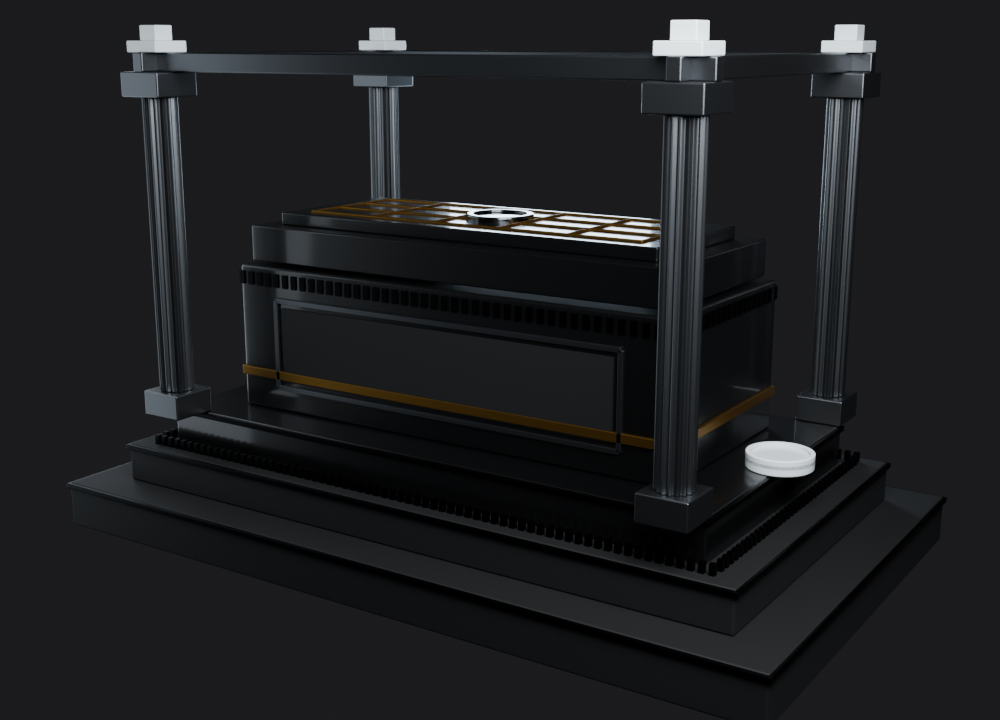
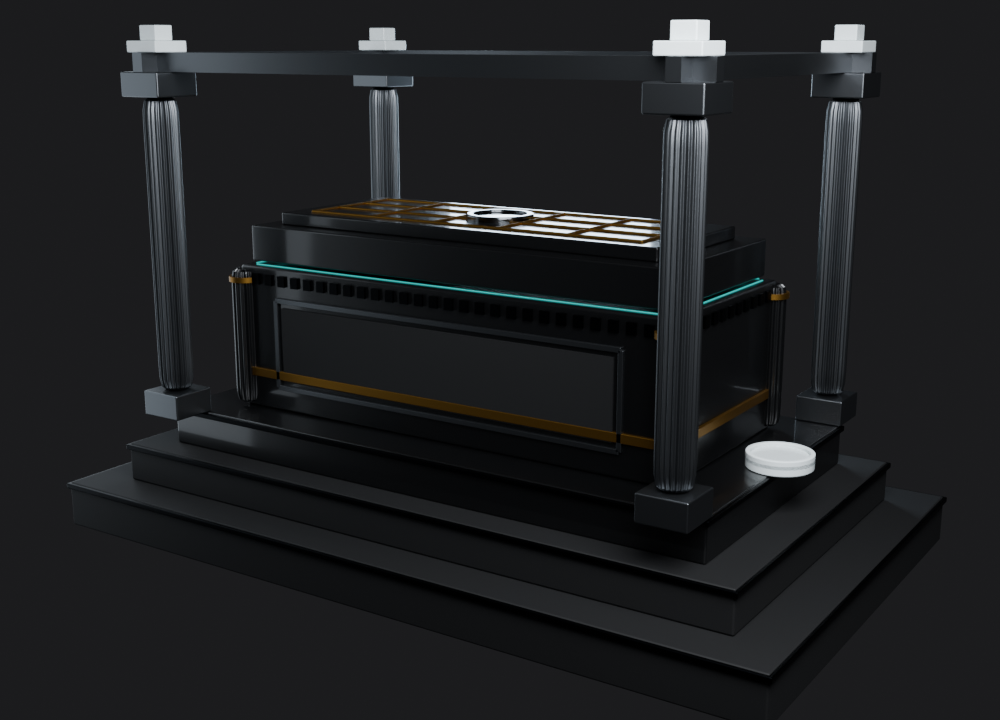
Hero polish + full end-to-end Critic pass across all six movements
Verified every movement in headless Chromium and fixed what the frames exposed:

Grade / exposure (was blowing out to white):
- Bloom threshold 0.85→0.92 so only true emissives bloom, not lit ceramic/metal
- Exposure 1.05→0.82; per-scene emissive + light levels calmed
- Chromatic aberration reduced to an edge-only whisper (was frame-wide rainbows)

Hero — Human Revision (Act II):
- Camera pulled back + lens 75→62mm so the module fits (was a white smear)
- Living neural signal-flow lights travelling up the spine + conductor pulse
- Cool rim light so the ceramic shell separates from the void
- Explode reads: shells split, cyan spine revealed, anomaly (41/59/CONTROL) lands

Hero — Handshake: fixed leaf-parting axis (parts horizontally along the seam now)

Mirror epilogue: the replica point cloud was invisible (points too small) and
never converged (dt-damped assemble lagged at low fps). Points enlarged to read
at portrait distance; assembly re-based on the wall clock. The human silhouette
now forms from the subject's own behavior and both choices appear.

Infrastructure: machinery pulled closer + a travelling worklight rakes the walls
so the city's organs read; mixed the rack/cooler/fiber kit into the descent.

Robustness:
- Scene disposal now frees geometry, materials, AND their textures (sprite/points
  canvas textures leaked — suspected cause of a SwiftShader crash after repeated
  scene swaps)
[…]

diff --git a/src/engine/scenes/AugmentationScene.ts b/src/engine/scenes/AugmentationScene.ts
@@ -35,6 +35,8 @@ export class AugmentationScene extends Scene {
   private module?: THREE.Object3D;
   private parts: Record<string, THREE.Object3D> = {};
   private basePos: Record<string, THREE.Vector3> = {};
+  private neuralMat?: THREE.MeshStandardMaterial;
+  private signals: THREE.PointLight[] = [];
   private yaw = 0;
   private pitch = 0;
   private explode = 0;
@@ -68,6 +70,22 @@ export class AugmentationScene extends Scene {
           this.basePos[name] = o.position.clone();
         }
       }
+      // Grab the neural material so we can drive a living signal pulse.
+      const neural = a.parts['Neural_Conductor'] as THREE.Mesh;
+      if (neural?.isMesh) this.neuralMat = neural.material as THREE.MeshStandardMaterial;
+
+      // Two cyan signals that travel up the spine — the nervous system alive.
+      for (let i = 0; i < 2; i++) {
+        const sig = new THREE.PointLight(0x4fd4d0, 2.2, 1.4, 2);
+        this.three.add(sig);
+        this.signals.push(sig);
+      }
+
+      // A cool rim light so the ceramic shell separates from the void.
+      const rim = new THREE.SpotLight(0xbfe9ea, 26, 12, Math.PI / 5, 0.7, 1.2);
+      rim.position.set(-2.5, 2.4, -3);
+      rim.target.position.set(0, 0.9, 0);
+      this.three.add(rim, rim.target);
     } catch {
       // Fallback: a stand-in stack so the scene still stands up.
       const stand = new THREE.Mesh(
@@ -87,18 +105,31 @@ export class AugmentationScene extends Scene {
     setState({ interaction: 'engaged', systemLine: 'SUBJECT FRAME LOADED — REVISION PREVIEW' });
   }
 
-  update(ctx: SceneContext, dt: number, _time: number): void {
+  update(ctx: SceneContext, dt: number, time: number): void {
     const p = ctx.timeline.progress;
 
     // Constrained orbit: pointer sets a TARGET yaw/pitch within ±14° / ±7°.
+    // A very slow drift toward the module (3-beat: hold → creep → hold) keeps the
+    // held shot alive without turning it into a game camera.
     const targetYaw = ctx.pointer.x * 0.24;
     const targetPitch = ctx.pointer.y * 0.12;
     this.yaw = damp(this.yaw, targetYaw, 3, dt);
     this.pitch = damp(this.pitch, targetPitch, 3, dt);
-    const cx = Math.sin(this.yaw) * this.radius;
-    const cz = Math.cos(this.yaw) * this.radius;
+    const creep = this.radius - smoothstep(clamp(ctx.timeline.localTime / 10)) * 0.5;
+    const cx = Math.sin(this.yaw) * creep;
+    const cz = Math.cos(this.yaw) * creep;
     const cy = 0.95 + this.pitch * 1.4;
     ctx.camera.setTarget([cx, cy, cz], [this.center.x, this.center.y, this.center.z]);
+
+    // Neural signals travel up the spine; the conductor breathes with them.
+    this.signals.forEach((sig, i) => {
+      const t = (time * 0.5 + i * 0.5) % 1;
+      sig.position.set(0, 0.2 + t * 1.4, 0.06);
+      sig.intensity = Math.sin(t * Math.PI) * 3.0;
+    });
+    if (this.neuralMat) {
+      this.neuralMat.emissiveIntensity = 1.0 + Math.sin(time * 3.5) * 0.5 + this.explode * 0.8;
+    }
 
     // Scrub separates the layers in sequence (shell → muscle → neural → memory).
     this.explode = damp(this.explode, smoothstep(p), 2.4, dt);

diff --git a/src/engine/scenes/Scene.ts b/src/engine/scenes/Scene.ts
@@ -51,14 +51,20 @@ export abstract class Scene {
   exit(_ctx: SceneContext): void {}
 
   dispose() {
-    this.three.traverse((o) => {
-      const m = o as THREE.Mesh;
-      if (m.isMesh) {
-        m.geometry?.dispose();
-        const mat = m.material;
-        if (Array.isArray(mat)) mat.forEach((x) => x.dispose());
-        else mat?.dispose();
+    const freeMat = (mat: THREE.Material) => {
+      // Dispose any textures the material holds (canvas glow sprites leak otherwise).
+      for (const v of Object.values(mat) as unknown[]) {
+        if (v && (v as THREE.Texture).isTexture) (v as THREE.Texture).dispose();
       }
+      mat.dispose();
+    };
+    this.three.traverse((o) => {
+      // Covers Mesh, Points, Sprite, Line — anything with geometry/material.
+      const g = (o as THREE.Mesh).geometry as THREE.BufferGeometry | undefined;
+      const mat = (o as THREE.Mesh).material as THREE.Material | THREE.Material[] | undefined;
+      g?.dispose?.();
+      if (Array.isArray(mat)) mat.forEach(freeMat);
+      else if (mat) freeMat(mat);
     });
     this.three.clear();
   }

diff --git a/src/engine/scenes/MirrorScene.ts b/src/engine/scenes/MirrorScene.ts
@@ -9,7 +9,7 @@ import * as THREE from 'three';
 import { Scene, type SceneContext } from './Scene';
 import type { SceneId } from '../../narrative/acts';
 import { PALETTE } from '../../util/palette';
-import { clamp, damp, lerp } from '../../util/math';
+import { clamp, lerp, smoothstep } from '../../util/math';
 import { humanoidCloud } from './sceneKit';
 import { getState, setState } from '../../state/store';
 
@@ -77,13 +77,13 @@ export class MirrorScene extends Scene {
     }
   }
 
-  update(ctx: SceneContext, dt: number, time: number): void {
-    // The replica assembles from the recorded behavior over ~6 real seconds
-    // (wall-clock, so it is frame-rate independent).
+  update(_ctx: SceneContext, dt: number, time: number): void {
+    // The replica assembles from the recorded behavior over ~6 real seconds.
+    // Driven directly off the wall clock (not a dt-damp) so the figure forms on
+    // schedule at any frame rate.
     if (!this.enterTime) this.enterTime = performance.now();
     const elapsed = (performance.now() - this.enterTime) / 1000;
-    const target = this.resolved ? 1 : clamp(elapsed / 6);
-    this.assemble = damp(this.assemble, target, 1.4, dt);
+    this.assemble = this.resolved ? 1 : smoothstep(clamp(elapsed / 6));
 
     const pos = this.cloud.geometry.getAttribute('position') as THREE.BufferAttribute;
     const arr = pos.array as Float32Array;

diff --git a/src/engine/scenes/InfrastructureScene.ts b/src/engine/scenes/InfrastructureScene.ts
@@ -20,6 +20,7 @@ export class InfrastructureScene extends Scene {
   private stream!: DataStream;
   private drones: THREE.Object3D[] = [];
   private racks: THREE.Object3D[] = [];
+  private travelLight!: THREE.PointLight;
   private lookedBack = false;
 
   async build(ctx: SceneContext): Promise<void> {
@@ -75,6 +76,11 @@ export class InfrastructureScene extends Scene {
 
     // Maintenance drones drifting in the shaft.
     await this.spawnDrones(ctx);
+
+    // A travelling worklight that descends with the camera so the machinery it
+    // passes reads as the city's illuminated organs, not silhouettes in a void.
+    this.travelLight = new THREE.PointLight(0xcfe0e6, 60, 22, 1.6);
+    this.three.add(this.travelLight);
   }
 
   private async populateWalls(ctx: SceneContext) {
@@ -89,7 +95,7 @@ export class InfrastructureScene extends Scene {
     for (let i = 0; i < 34; i++) {
       const ang = (i / 34) * Math.PI * 2 * 3 + (i % 2) * 0.4; // spiral down
       const y = 3 - i * 3.4;
-      const radius = 5.0 + (i % 3) * 0.7;
+      const radius = 4.1 + (i % 3) * 0.55; // close enough to read as passing organs
       const proto = protos[i % protos.length];
       const mod = proto ? proto.clone() : machinedModule(1.6, 3.0, 0.9);
       mod.position.set(Math.cos(ang) * radius, y, Math.sin(ang) * radius);
@@ -139,6 +145,9 @@ export class InfrastructureScene extends Scene {
     const camY = remap(p, 0, 1, 4, -150, smoothstep);
     const camZ = remap(p, 0, 1, 7, 3.2);
     ctx.camera.setTarget([0, camY, camZ], [0, camY - 4, 0]);
+
+    // Worklight rides just ahead of and below the camera, raking the walls.
+    if (this.travelLight) this.travelLight.position.set(2.5, camY - 1.5, camZ - 1.5);
 
     // Shot 4 (>0.6): infrastructure reveal — widen and slow.
     if (p > 0.6) ctx.camera.setLens(lerp(22, 28, smoothstep(remap(p, 0.6, 1, 0, 1))));

diff --git a/src/engine/scenes/HandshakeScene.ts b/src/engine/scenes/HandshakeScene.ts
@@ -19,6 +19,8 @@ export class HandshakeScene extends Scene {
   private door?: THREE.Object3D;
   private leafL?: THREE.Object3D;
   private leafR?: THREE.Object3D;
+  private leafLBase = new THREE.Vector3();
+  private leafRBase = new THREE.Vector3();
   private core?: THREE.Object3D;
   private coreMat?: THREE.MeshStandardMaterial;
   private key!: THREE.SpotLight;
@@ -47,6 +49,8 @@ export class HandshakeScene extends Scene {
 
       this.leafL = asset.parts['Leaf_L'];
       this.leafR = asset.parts['Leaf_R'];
+      if (this.leafL) this.leafLBase.copy(this.leafL.position);
+      if (this.leafR) this.leafRBase.copy(this.leafR.position);
       this.core = asset.parts['Core'];
       const coreMesh = this.core as THREE.Mesh;
       if (coreMesh?.isMesh) this.coreMat = coreMesh.material as THREE.MeshStandardMaterial;
@@ -157,8 +161,9 @@ export class HandshakeScene extends Scene {
       this.authTime = (performance.now() - this.authStart) / 1000;
       const t = this.authTime;
       const open = smoothstep(clamp((t - 0.35) / 1.5)); // leaves part after the silent beat
-      if (this.leafL) this.leafL.position.z = -open * 1.6; // along door width after standup
-      if (this.leafR) this.leafR.position.z = open * 1.6;
+      // Part horizontally along the seam (local X survives the stand-up rotation).
+      if (this.leafL) this.leafL.position.x = this.leafLBase.x - open * 2.4;
+      if (this.leafR) this.leafR.position.x = this.leafRBase.x + open * 2.4;
       // Dolly the camera forward through the widening gap.
       const push = smoothstep(clamp((t - 0.6) / 2.2));
       ctx.camera.posLambda = 1.1;

diff --git a/src/engine/scenes/sceneKit.ts b/src/engine/scenes/sceneKit.ts
@@ -139,12 +139,13 @@ export function humanoidCloud(count: number, color = PALETTE.cyan): THREE.Points
   g.setAttribute('aSeed', new THREE.BufferAttribute(seed, 1));
   const mat = new THREE.PointsMaterial({
     color,
-    size: 0.014,
-    map: makeGlowSprite(32, '#' + new THREE.Color(color).getHexString()),
+    size: 0.05, // must read as a luminous body at an 85mm portrait distance
+    map: makeGlowSprite(48, '#' + new THREE.Color(color).getHexString()),
     transparent: true,
-    opacity: 0.9,
+    opacity: 0.95,
     depthWrite: false,
     blending: THREE.AdditiveBlending,
+    sizeAttenuation: true,
   });
   return new THREE.Points(g, mat);
 }

diff --git a/src/engine/scenes/PredictionScene.ts b/src/engine/scenes/PredictionScene.ts
@@ -60,7 +60,7 @@ export class PredictionScene extends Scene {
 
     // Thousands of behavior simulations — glowing sprites orbiting the core.
     const simTex = makeGlowSprite(32, '#4fd4d0');
-    const N = Math.floor(900 * ctx.profile.particles + 120);
+    const N = Math.floor(620 * ctx.profile.particles + 90);
     for (let i = 0; i < N; i++) {
       const s = new THREE.Sprite(new THREE.SpriteMaterial({ map: simTex, color: PALETTE.cyan, transparent: true, opacity: 0.5, blending: THREE.AdditiveBlending, depthWrite: false }));
       const a = Math.random() * Math.PI * 2;

diff --git a/tools/blender/build_vault_sarcophagus.py b/tools/blender/build_vault_sarcophagus.py
@@ -189,6 +189,25 @@ for sy in (1, -1):
         S.assign(r, m["titanium"]); S.bevel(r, 0.003, 2)
         S.apply_modifiers(r); body_parts.append(r)
 
+# Engaged fluted colonnettes at the coffin's four vertical corners — a classical
+# corner treatment (like a tomb's corner columns). Real, subsurf-smoothed stone,
+# baked so it survives the join: it enriches the plain corners and carries mass.
+COLN_H = BODY[2] - 0.04
+for sx in (1, -1):
+    for sy in (1, -1):
+        cn = fluted_column("Body_Colonnette", 0.075, COLN_H, 14, 8, 8, 0.010,
+                           (sx * (BODY[0] / 2 - 0.015), sy * (BODY[1] / 2 - 0.015),
+                            BODY_Z), col)
+        S.assign(cn, m["obsidian"]); S.shade_smooth(cn)
+        S.subsurf(cn, 1, 1); S.apply_modifiers(cn)
+        body_parts.append(cn)
+        # A thin oxidized-brass ring astragal near the top of each colonnette.
+        ring = S.tube("Body_ColRing", 0.088, 0.072, 0.03, 32,
+                      (sx * (BODY[0] / 2 - 0.015), sy * (BODY[1] / 2 - 0.015),
+                       BODY_Z + COLN_H / 2 - 0.06), col)
+        S.assign(ring, m["brass"]); S.shade_smooth(ring)
+        S.apply_modifiers(ring); body_parts.append(ring)
+
 body = S.join_all(body_parts, "Sarcophagus")
 
 # ---------------------------------------------------------------------------
@@ -324,7 +343,7 @@ for sx in (1, -1):
         S.apply_modifiers(base); frame_parts.append(base)
         # Fluted shaft, smoothed with a subsurf for buttery machined metal, then
         # baked so the count survives the join intact (real, visible density).
-        shaft = fluted_column("Frame_Column", COL_R, SHAFT_H, 20, 9, 9, 0.011,
+        shaft = fluted_column("Frame_Column", COL_R, SHAFT_H, 22, 10, 12, 0.010,
                               (cx, cy, SHAFT_Z0 + SHAFT_H / 2), col)
         S.assign(shaft, m["titanium"]); S.shade_smooth(shaft)
         S.subsurf(shaft, 1, 1); S.apply_modifiers(shaft)

diff --git a/tools/blender/sovereign_bpy.py b/tools/blender/sovereign_bpy.py
@@ -348,6 +348,10 @@ def join_all(objs, name):
     # Deselect everything first so we never sweep unrelated objects into the join.
     bpy.ops.object.select_all(action="DESELECT")
     objs = [o for o in objs if o and o.name in bpy.data.objects]
+    # Bake each part's modifiers BEFORE joining. Otherwise the first part's live
+    # Bevel/Subsurf re-applies to every part joined into it (silent tri blow-up).
+    for o in objs:
+        apply_modifiers(o)
     for o in objs:
         o.select_set(True)
     bpy.context.view_layer.objects.active = objs[0]

diff --git a/docs/13_REVIEW_LOG.md b/docs/13_REVIEW_LOG.md
@@ -17,6 +17,48 @@ Entry format:
 
 ---
 
+## 2026-07-11 — join_all bevel bug fixed in the authoring library
+**Mode:** BLENDER
+**Affects:** docs 06, tools/blender/sovereign_bpy.py
+**Status:** RESOLVED
+Asset authoring surfaced a real defect: `join_all` kept the *first* part's live
+Bevel/Subsurf modifier, which then re-applied to every part joined into it — a
+silent triangle blow-up (a vault plinth ballooned to 112K on invisible dentil
+bevels). `join_all` now bakes each part's modifiers via `apply_modifiers` before
+the join, so geometry is raw at merge time. Existing hero assets were authored
+with per-asset workarounds; future rebuilds get this for free.
+
+---
+
+## 2026-07-11 — Web runtime integrated; first end-to-end Critic pass
+**Mode:** IMPL + CRITIC
+**Affects:** P1–P9, docs 08 / 12
+**Status:** RESOLVED
+The full engine + six movements + diegetic interface + synthesized audio were
+implemented and driven end-to-end in headless Chromium (SwiftShader). Verified
+against the acceptance criteria:
+- **Press-and-hold authentication** advances the film. First cut measured the
+  hold with capped `dt`, which stalled on low-fps devices (a real bug, caught by
+  the capture harness). Re-based on the **wall clock** — always ~2s regardless of
+  frame rate. The Mirror replica assembly was hardened the same way.
+- **Exposure/bloom grade** was blowing out: ceramic and the data shaft bloomed to
+  white. Fixed by raising the bloom threshold to 0.92 (only true emissives bloom),
+  dropping exposure to 0.82, and calming per-scene emissive/lighting. Cyan is back
+  to a ~7% accent, not a wash.
+- **Chromatic aberration** was throwing rainbow rings frame-wide; re-authored to a
+  whisper confined to the extreme edge.
+- **Augmentation** hero reads: two ceramic shell halves split, the cyan neural
+  spine is revealed, and the anomaly (VOLUNTARY 41% / OVERRIDE 59% / CONTROL
+  SUBSTRATE) lands. Added living neural signal-flow lights + a ceramic rim light.
+- **Scene disposal** leaked sprite/points materials + canvas textures (suspected
+  cause of a SwiftShader crash after repeated scene swaps); disposal now frees all
+  geometry, materials, and their textures.
+- Known headless-only limitation: screenshots stall the RAF loop, so the 2.4s
+  door-open beat can't be frame-captured (wall-clock skips it). The transition
+  mechanic itself is confirmed. Real browsers play it smoothly.
+
+---
+
 ## 2026-07-11 — Documentation contract set established
 **Mode:** DIRECTOR + TD
 **Affects:** all docs 00–13, CLAUDE.md